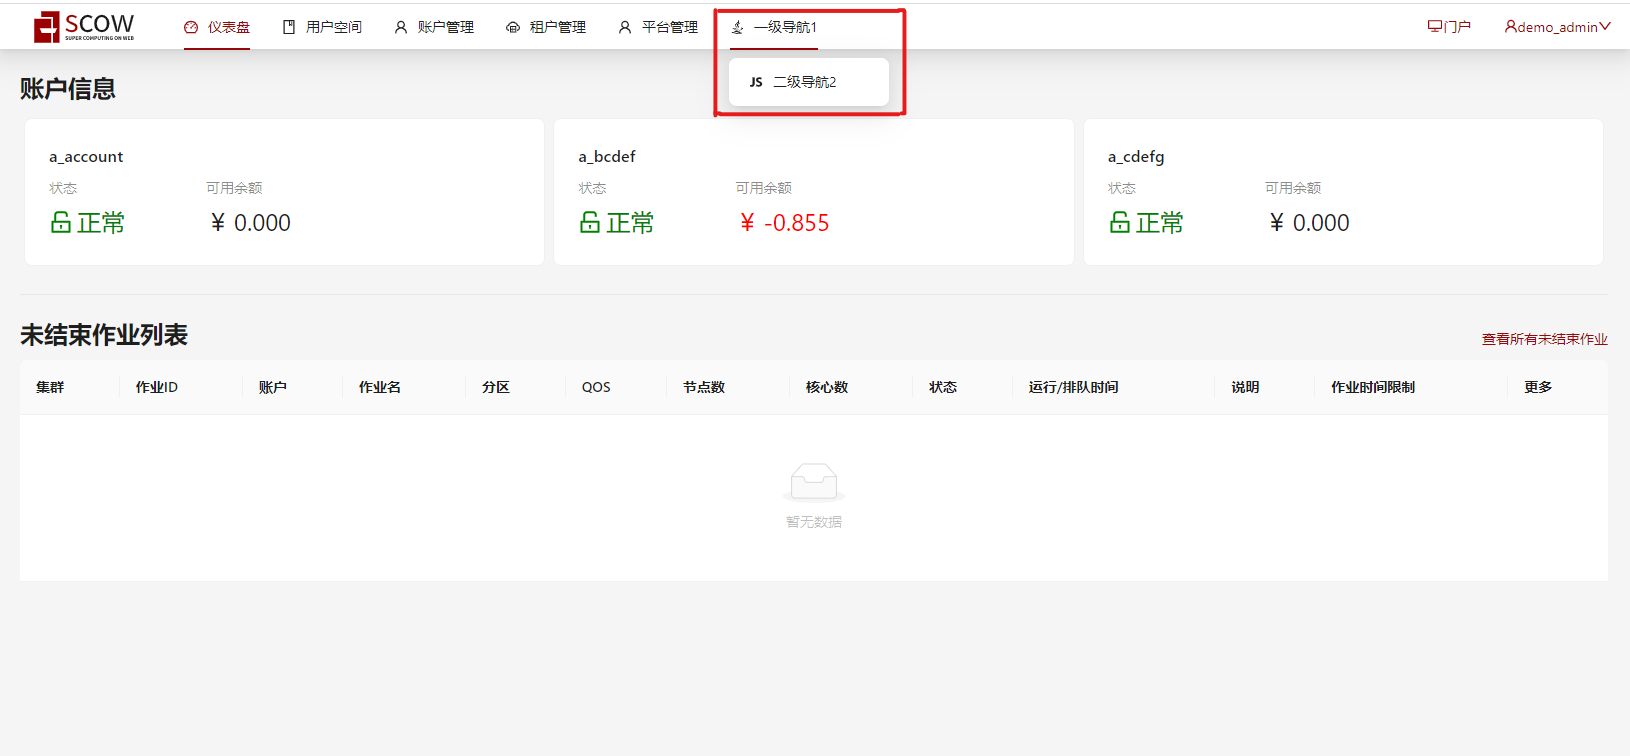
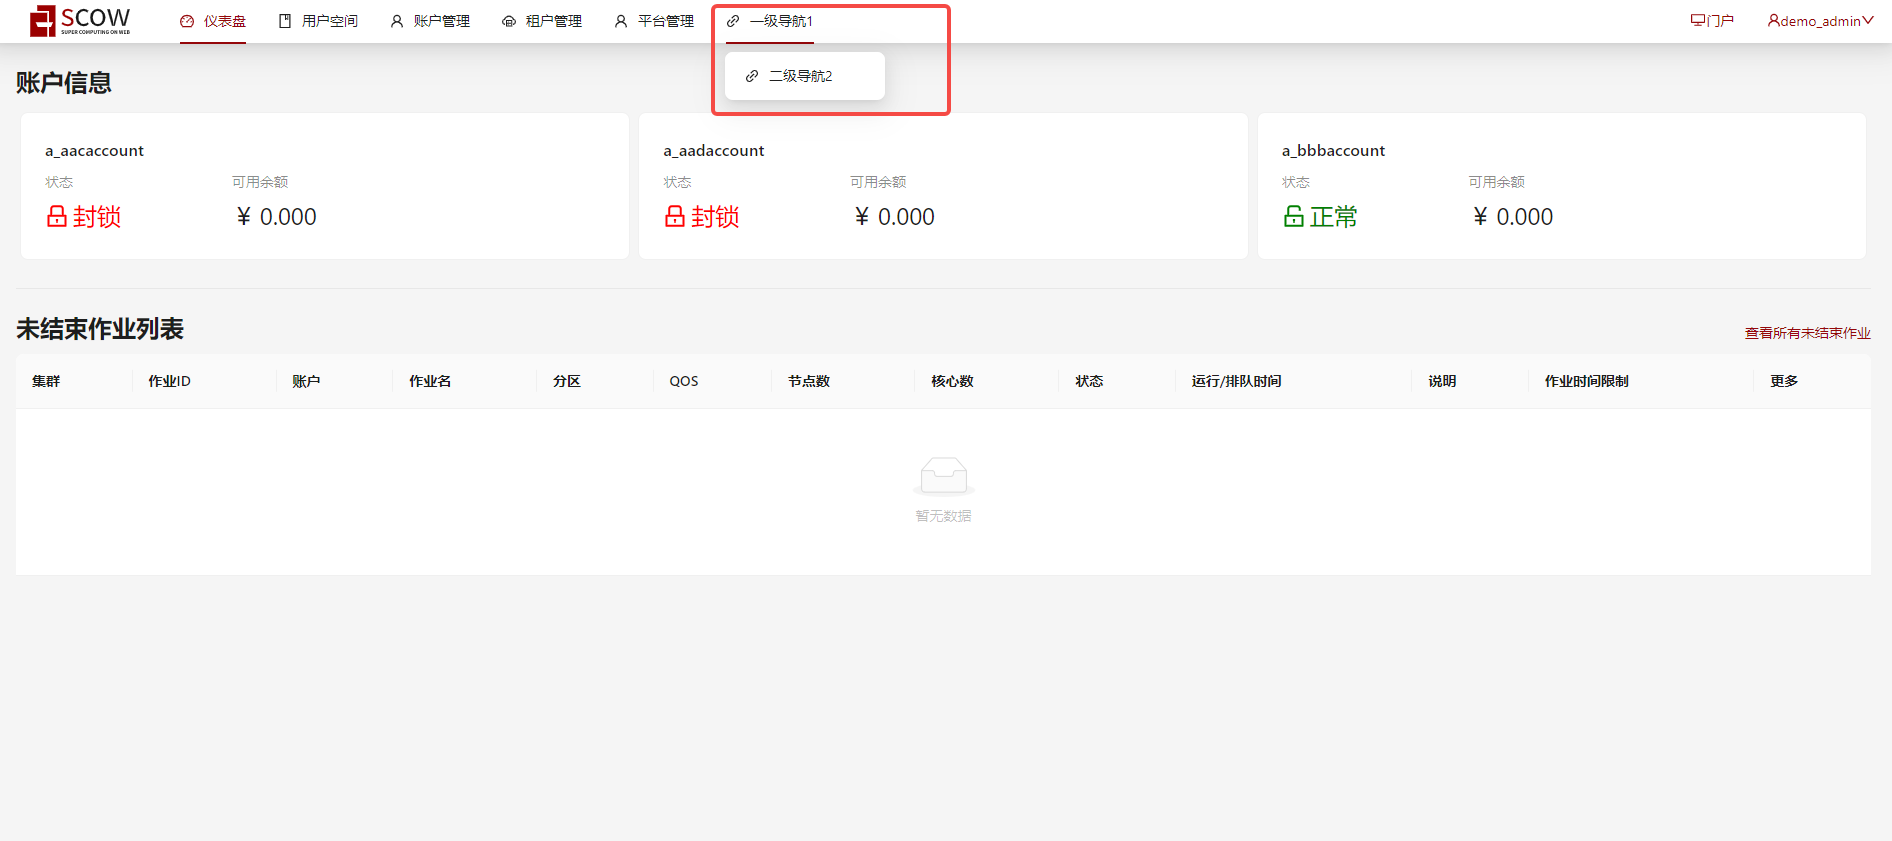
去掉icon相关配置，默认图标LinkOutlined

diff --git a/apps/mis-web/src/layouts/routes.tsx b/apps/mis-web/src/layouts/routes.tsx
@@ -13,11 +13,10 @@
 import {
   AccountBookOutlined, BookOutlined, CloudServerOutlined,
   DashboardOutlined,
-  InfoOutlined, LockOutlined, MoneyCollectOutlined, PartitionOutlined,
+  InfoOutlined, LinkOutlined, LockOutlined, MoneyCollectOutlined, PartitionOutlined,
   PlusOutlined, PlusSquareOutlined, StarOutlined, ToolOutlined, UserAddOutlined,
   UserOutlined } from "@ant-design/icons";
 import { NavItemProps } from "@scow/lib-web/build/layouts/base/types";
-import { IconFont } from "@scow/lib-web/build/layouts/IconFont";
 import { AccountAffiliation } from "@scow/protos/build/server/user";
 import { PlatformRole, TenantRole, UserRole } from "src/models/User";
 import { User } from "src/stores/UserStore";
@@ -326,7 +325,7 @@ export const getAvailableRoutes = (user: User | undefined): NavItemProps[] => {
       .filter((link) => !link.allowedRoles
         || (link.allowedRoles.length && link.allowedRoles.some((role) => userCurrentRoles[role])))
       .map((link) => ({
-        Icon: <IconFont type={link.icon} scriptUrls={publicConfig.ICONFONT_SCRIPT_URLS} />,
+        Icon: LinkOutlined,
         text: link.text,
         path: `${link.url}?token=${user.token}`,
         clickable: true,
@@ -335,7 +334,7 @@ export const getAvailableRoutes = (user: User | undefined): NavItemProps[] => {
           || (childLink.allowedRoles.length &&
             childLink.allowedRoles.some((role) => userCurrentRoles[role])))
           .map((childLink) => ({
-            Icon: <IconFont type={childLink.icon} scriptUrls={publicConfig.ICONFONT_SCRIPT_URLS} />,
+            Icon: LinkOutlined,
             text: childLink.text,
             path: `${childLink.url}?token=${user.token}`,
             clickable: true,

diff --git a/apps/portal-web/src/layouts/routes.tsx b/apps/portal-web/src/layouts/routes.tsx
@@ -17,13 +17,13 @@ import {
   DesktopOutlined,
   EyeOutlined,
   FolderOutlined,
+  LinkOutlined,
   Loading3QuartersOutlined,
   MacCommandOutlined,
   PlusCircleOutlined,
   PlusOutlined,
   SaveOutlined } from "@ant-design/icons";
 import { NavItemProps } from "@scow/lib-web/build/layouts/base/types";
-import { IconFont } from "@scow/lib-web/build/layouts/IconFont";
 import { App } from "@scow/protos/build/portal/app";
 import { join } from "path";
 import { User } from "src/stores/UserStore";
@@ -128,13 +128,13 @@ export const userRoutes: (
     }] : []),
     ...(publicConfig.NAV_LINKS && publicConfig.NAV_LINKS.length > 0
       ? publicConfig.NAV_LINKS.map((link) => ({
-        Icon: <IconFont type={link.icon} scriptUrls={publicConfig.ICONFONT_SCRIPT_URLS} />,
+        Icon: LinkOutlined,
         text: link.text,
         path: `${link.url}?token=${user.token}`,
         clickable: true,
         openInNewPage: true,
         children: link.children?.length ? link.children?.map((childLink) => ({
-          Icon: <IconFont type={childLink.icon} scriptUrls={publicConfig.ICONFONT_SCRIPT_URLS} />,
+          Icon: LinkOutlined,
           text: childLink.text,
           path: `${childLink.url}?token=${user.token}`,
           clickable: true,

diff --git a/libs/config/src/mis.ts b/libs/config/src/mis.ts
@@ -111,17 +111,14 @@ export const MisConfigSchema = Type.Object({
 
   navLinks: Type.Optional(Type.Array(
     Type.Object({ text: Type.String({ description: "一级导航名称" }), url: Type.String({ description: "一级导航链接" }),
-      icon: Type.String({ description: "一级导航链接显示icon" }),
       allowedRoles: Type.Optional(Type.Array(Type.String(), { description: "可以看到这个链接的用户" })),
       children: Type.Optional(Type.Array(
         Type.Object({ text: Type.String({ description: "二级导航名称" }), url: Type.String({ description: "二级导航链接" }),
-          icon: Type.String({ description: "二级导航链接显示icon" }),
           allowedRoles: Type.Optional(Type.Array(Type.String(), { description: "可以看到这个链接的用户" })),
         }))),
     })),
   ),
 
-  iconfontScriptUrls: Type.Optional(Type.Array(Type.String(), { description: "可以获取icon的仓库脚本地址" })),
 });
 
 const MIS_CONFIG_NAME = "mis";

diff --git a/libs/config/src/portal.ts b/libs/config/src/portal.ts
@@ -61,14 +61,11 @@ export const PortalConfigSchema = Type.Object({
 
   navLinks: Type.Optional(Type.Array(
     Type.Object({ text: Type.String({ description: "一级导航名称" }), url: Type.String({ description: "一级导航链接" }),
-      icon: Type.String({ description: "一级导航链接显示icon" }), children: Type.Optional(Type.Array(
+      children: Type.Optional(Type.Array(
         Type.Object({ text: Type.String({ description: "二级导航名称" }), url: Type.String({ description: "二级导航链接" }),
-          icon: Type.String({ description: "二级导航链接显示icon" }),
         }))),
     }),
   )),
-
-  iconfontScriptUrls: Type.Optional(Type.Array(Type.String(), { description: "可以获取icon的仓库脚本地址" })),
 
 });
 

diff --git a/apps/mis-web/src/utils/config.ts b/apps/mis-web/src/utils/config.ts
@@ -50,7 +50,6 @@ export interface PublicRuntimeConfig {
   PORTAL_URL: string | undefined;
 
   NAV_LINKS?: NavLink[];
-  ICONFONT_SCRIPT_URLS?: string[];
 }
 
 export const runtimeConfig: ServerRuntimeConfig = getConfig().serverRuntimeConfig;
@@ -60,7 +59,6 @@ export type Cluster = { id: string; name: string; }
 export type NavLink = {
   text: string;
   url: string;
-  icon: string;
   allowedRoles?: string[];
   children?: Omit<NavLink, "children">[];
 }

diff --git a/apps/portal-web/src/utils/config.ts b/apps/portal-web/src/utils/config.ts
@@ -71,7 +71,6 @@ export interface PublicRuntimeConfig {
   CLIENT_MAX_BODY_SIZE: string;
 
   NAV_LINKS?: NavLink[];
-  ICONFONT_SCRIPT_URLS?: string[];
 }
 
 export const runtimeConfig: ServerRuntimeConfig = getConfig().serverRuntimeConfig;
@@ -81,7 +80,6 @@ export type Cluster = { id: string; name: string; }
 export type NavLink = {
   text: string;
   url: string;
-  icon: string;
   children?: Omit<NavLink, "children">[];
 }
 

diff --git a/apps/portal-web/config.js b/apps/portal-web/config.js
@@ -153,7 +153,6 @@ const buildRuntimeConfig = async (phase, basePath) => {
     CLIENT_MAX_BODY_SIZE: config.CLIENT_MAX_BODY_SIZE,
 
     NAV_LINKS: portalConfig.navLinks,
-    ICONFONT_SCRIPT_URLS: portalConfig.iconfontScriptUrls,
   };
 
   if (!building && !testenv) {

diff --git a/apps/mis-web/config.js b/apps/mis-web/config.js
@@ -130,7 +130,6 @@ const buildRuntimeConfig = async (phase, basePath) => {
     BASE_PATH: basePath,
 
     NAV_LINKS: misConfig.navLinks,
-    ICONFONT_SCRIPT_URLS: misConfig.iconfontScriptUrls,
   };
 
   if (!building) {

diff --git a/docs/docs/deploy/config/customization/customNavLinks.md b/docs/docs/deploy/config/customization/customNavLinks.md
@@ -24,17 +24,11 @@ navLinks:
   - text: ""
     # 链接地址
     url: ""
-    # 导航图标名称
-    icon: ""
     # 二级导航,可选填
     children:
       # 二级导航相关配置，与一级导航相同，但是不允许再设置children
       - text: ""
         url: ""
-        icon: ""
-
-# 用户灵活管理 iconfont.cn 图标的脚本地址配置,如果存在则替换默认脚本库地址
-iconfontScriptUrls: []
 ```
 
 ## 管理系统中的配置
@@ -48,8 +42,6 @@ navLinks:
   - text: ""
     # 链接地址
     url: ""
-    # 导航图标名称
-    icon: ""
     # 可以看到这个链接的用户,可选填
     # 用户类型： user, accountAdmin, accountOwner, tenantFinance, tenantAdmin, platformAdmin, platformFinance
     allowedRoles: []
@@ -58,11 +50,7 @@ navLinks:
       # 二级导航相关配置，与一级导航相同，但是不允许再设置children
       - text: ""
         url: ""
-        icon: ""
         allowedRoles: []
-
-# 用户灵活管理 iconfont.cn 图标的脚本地址配置,如果存在则替换默认脚本库地址
-iconfontScriptUrls: []
 ```
 
 ## 配置示例
@@ -72,19 +60,14 @@ iconfontScriptUrls: []
 navLinks:
   - text: "一级导航1"
     url: "https://hahahaha1.com/"
-    icon: "icon-solution"
     children:
       - text: "二级导航1"
         url: "https://hahahaha1.1.com"
-        icon: "icon-filesearch"
       - text: "二级导航2"
         url: "https://hahahaha1.2.com"
-        icon: "icon-link"
   - text: "一级导航2"
     url: "https://hahahaha2.com"
-    icon: "icon-tags"
     children: []
-iconfontScriptUrls: []
 ```
 
 ![门户系统自定义导航链接配置示例](images/portal-custom-navlinks.png)
@@ -95,26 +78,16 @@ iconfontScriptUrls: []
 navLinks:
   - text: "一级导航1"
     url: "https://hahahaha1.com/"
-    icon: "icon-java"
     children:
       - text: "二级导航1"
         url: "https://hahahaha1.1.com"
-        icon: "icon-javascript"
         allowedRoles: [tenantFinance]
       - text: "二级导航2"
         url: "https://hahahaha1.2.com"
-        icon: "icon-javascript"
         allowedRoles: [tenantAdmin, platformAdmin]
   - text: "一级导航2"
     url: "https://hahahaha2.com"
-    icon: "icon-python"
     allowedRoles: [platformFinance]
-
-iconfontScriptUrls:
-  # 包含icon-javascript, icon-java, icon-shoppingcart (overridden)的项目图标库脚本地址
-  - "//at.alicdn.com/t/font_1788044_0dwu4guekcwr.js"
-  # 包含icon-shoppingcart, icon-python的项目图标库脚本地址
-  - "//at.alicdn.com/t/font_1788592_a5xf2bdic3u.js"
 ```
 
 当前登录用户的用户角色为`accountOwner`，`tenantAdmin`，`platformAdmin`时,他可以阅览到的导航链接如下。
@@ -128,10 +101,8 @@ iconfontScriptUrls:
 | `navLinks`                | /                    | /                 |/           |/                                                                                          |
 | `text`                    | 字符串                | `portal`，`mis`    | 是         | 链接名称，SCOW导航栏上显示的名称                                                            |
 | `url`                     | 字符串                | `portal`，`mis`    | 是         | 链接地址，自定义导航链接地址，跳转时会在后面加入查询参数`?token={用来跟踪登录用户的状态的token}`  |
-| `icon`                    |  字符串               | `portal`，`mis`   | 是          | 图标名称，填写格式为  `icon-iconId`,其中iconId为在[iconfont.cn](https://www.iconfont.cn/)的项目图标仓库中查找到图标名称。      |
 | `allowedRoles`            |  用户角色字符串列表    | `mis`             |否           | 管理系统指定可以看到该导航链接的角色列表，用户角色类型包括  `user`, `accountUser`, `accountAdmin`, `accountOwner`, `tenantFinance`, `tenantAdmin`, `platformAdmin`, `platformFinance` 。如果没有指定，则不再限定用户角色，即所有用户都可以看到该导航链接。  |
 | `children`                |  导航内容的列表    | `portal`，`mis`   | 否          | 二级导航列表，内容包括该系统下一级导航的所有内容，内容类型以及是否必填与一级导航内容完全相同，但是不允许再继续设置chilidren，不允许继续添加三级导航。如果没有指定，则没有可以显示的二级导航链接。    |
-| `iconfontScriptUrls`       |  字符串列表           | `portal`，`mis`   | 否         | [iconfont.cn](https://www.iconfont.cn/)下的项目图标库的脚本地址，支持复数添加。如果没有填入或者值为空，则按默认图标库下的图标进行查找。如果填入且不为空，则替换默认图标库，在您自己管理的[iconfont.cn](https://www.iconfont.cn/)的项目图标库下查找图标。    |
 
 ### 角色配置说明
 
@@ -154,51 +125,5 @@ iconfontScriptUrls:
 如果您想更加详细的了解系统用户模型，请参考[用户模型](../../../info/mis/business/users.md)。
 
 :::
-
-### 图标配置说明
-
-系统支持用户灵活管理自己自定义导航链接的显示图标。
-您可以通过指定当前系统配置下的默认仓库的图标ID来进行图标管理，同时也可以提供自己在[iconfont.cn](https://www.iconfont.cn/)上的项目图标库的脚本地址来自由灵活的配置图标。
-
-#### 默认图标仓库
-
-在当前系统配置下，我们使用了**IconFont**组件来进行图标展示。
-我们使用了[iconfont.cn](https://www.iconfont.cn/)上提供的公开免费的[Ant Design 官方图标库](https://www.iconfont.cn/collections/detail?cid=9402)来作为**默认图标库**。您可以通过在其中选择的图标ID来指定图标。
-
-- 例如您想选择地球图案的图标来表示外部链接，它在[Ant Design 官方图标库](https://www.iconfont.cn/collections/detail?cid=9402)下的ID为`earth`，
-您需要在配置文件中的`icon`中填入`icon-earth`来获取显示。
-
-```
-navLinks:
-  - text: ""
-    url: ""
-    icon: "icon-earth"
-```
-
-#### 自定义图标仓库脚本
-
-在使用默认图标仓库以外，您还可以通过配置`iconfontScriptUrls`来指定自己在[iconfont.cn](https://www.iconfont.cn/)上拥有的项目图标仓库的脚本地址，从而使用自己上传的图标。
-我们在系统中使用的**IconFont**组件通过[iconfont.cn](https://www.iconfont.cn/)上项目下生成的symbol代码来实现图标库的选择。
-- 例如您在[iconfont.cn](https://www.iconfont.cn/)上自己的项目下上传了图标，并生成了**symbol代码**，您会得到类似
-`//at.alicdn.com/t/font_1788044_0dwu4guekcwr.js`的js文件代码。
-您可以通过将他添加到配置文件中来替换默认图标库。
-
-```
-iconfontScriptUrls: ["//at.alicdn.com/t/font_1788044_0dwu4guekcwr.js"]
-```
-
-如果您在[iconfont.cn](https://www.iconfont.cn/)上拥有多个项目的图标库，您可以复数添加以使用全部的图标。
-
-
-:::tip
-
-注意事项：
-
-1. 如果您配置了`iconfontScriptUrls`来添加自己的项目图标库，这将替换默认图标库。这个时候您配置的`icon`为当前您项目下上传图标的实际ID，它通常默认名称仍为`icon-iconId`的形式。
-2. 如果您配置了复数项的项目图标库的脚本地址，当资源的图标出现重名时，会按照数组顺序进行覆盖。
-
-:::
-
-
 
 

diff --git a/docs/docs/deploy/config/mis/intro.md b/docs/docs/deploy/config/mis/intro.md
@@ -114,9 +114,6 @@ predefinedChargingTypes:
   # 链接地址
   # url: ""
 
-  # 导航icon,"icon-iconId"形式字符串
-  # icon: ""
-
   # 可以看到这个链接的用户,可选填
   # 用户类型： user, accountUser, accountAdmin, accountOwner, tenantFinance, tenantAdmin, platformAdmin, platformFinance
   # allowedRoles: []
@@ -126,11 +123,7 @@ predefinedChargingTypes:
     # 二级导航相关配置，与一级导航相同，但是不允许再设置children
     # text: ""
     # url: ""
-    # icon: ""
     # allowedRoles: []
-
-# 用户灵活管理 iconfont.cn 图标的脚本地址配置，如果存在则替换默认脚本库地址
-# iconfontScirptUrls: []
 ```
 
 ## 启动服务

diff --git a/docs/docs/deploy/config/portal/intro.md b/docs/docs/deploy/config/portal/intro.md
@@ -91,18 +91,11 @@ shell: true
   # 链接地址
   # url: ""
 
-  # 导航icon,"icon-iconId"形式字符p串
-  # icon: ""
-
   # 二级导航,可选填
   # children:
     # 二级导航相关配置，与一级导航相同，但是不允许再设置children
     # text: ""
     # url: ""
-    # icon: ""
-
-# 用户灵活管理 iconfont.cn 图标的脚本地址配置,如果存在则替换默认脚本库地址
-# iconfontScirptUrls: []
 ```
 
 ## 更多配置

diff --git a/.changeset/sweet-spies-sparkle.md b/.changeset/sweet-spies-sparkle.md
@@ -2,4 +2,4 @@
 "@scow/config": patch
 ---
 
-在 portal.yaml 和 mis.yaml 中增加 navLinks 来支持增加一级二级导航链接，增加 iconfontScriptUrls 允许用户管理增加导航的 icon
+在 portal.yaml 和 mis.yaml 中增加 navLinks 来支持增加一级二级导航链接
